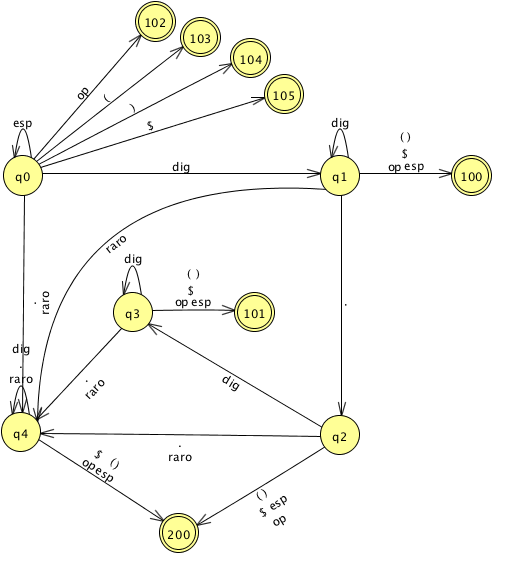
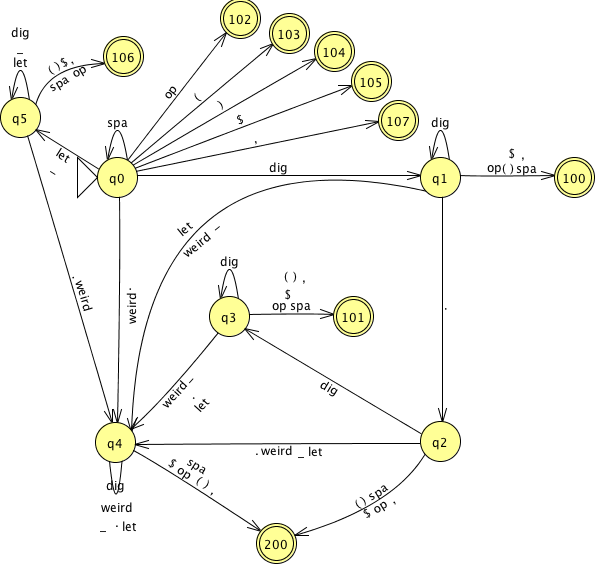
Add support for variables and comma separators

Changed region(s): [[0.0, 0.0, 0.9903, 1.0], [0.3095, 0.6252, 0.3404, 0.655]]

diff --git a/scanner.js b/scanner.js
@@ -21,6 +21,8 @@ const BOP = 102;  // Binary operator
 const LLP = 103;  // Delimiter: left parenthesis
 const RRP = 104;  // Delimiter: right parenthesis
 const END = 105;  // End of program
+const VAR = 106;  // Variable
+const COM = 107;  // Separator: comma
 const ERR = 200;  // Lexical error: unknown word
 
 // Transition Matrix: FDA coding
@@ -28,12 +30,13 @@ const ERR = 200;  // Lexical error: unknown word
 // Column = Transition
 // States > 99 are final states (acceptors)
 // Special case: State 200 = ERROR
-//            dig  op    (    )   odd  spa   .    $
-const MT = [[   1, BOP, LLP, RRP,   4,   0,   4, END],    // State 0 - Initial state
-            [   1, INT, INT, INT,   4, INT,   2, INT],    // State 1 - Integer numbers
-            [   3, ERR, ERR, ERR,   4, ERR,   4, ERR],    // State 2 - First decimal number
-            [   3, FLT, FLT, FLT,   4, FLT,   4, FLT],    // State 3 - Decimal numbers remaining
-            [   4, ERR, ERR, ERR,   4, ERR,   4, ERR]];   // State 4 - Error state
+//            dig  op    (    )   odd  spa   .    $   let   _    ,
+const MT = [[   1, BOP, LLP, RRP,   4,   0,   4, END,   5,   5, COM],    // State 0 - Initial state
+            [   1, INT, INT, INT,   4, INT,   2, INT,   4,   4, INT],    // State 1 - Integer numbers
+            [   3, ERR, ERR, ERR,   4, ERR,   4, ERR,   4,   4, ERR],    // State 2 - First decimal number
+            [   3, FLT, FLT, FLT,   4, FLT,   4, FLT,   4,   4, FLT],    // State 3 - Decimal numbers remaining
+            [   4, ERR, ERR, ERR,   4, ERR,   4, ERR,   4,   4, ERR],    // State 4 - Error state
+            [   5, VAR, VAR, VAR,   4, VAR,   4, VAR,   5,   5, VAR]];   // State 5 - Variables
 
 function scanner(input) {
   var state = 0;
@@ -87,6 +90,14 @@ function scanner(input) {
         console.log(tokens);
         return -1;
         break;
+      case VAR:
+        read = false;
+        console.log('Variable', lexema);
+        break;
+      case COM:
+        lexema += character;
+        console.log('Separator', lexema);
+        break;
       case ERR:
         read = false;
         console.log('Unexpected token', lexema);
@@ -117,7 +128,16 @@ function filter(character) {
 			return 6; // Decimal point
 		case '$':
 			return 7; // End of program
+    case 'a': case 'b': case 'c': case 'd': case 'e': case 'f': case 'g': case 'h':
+    case 'i': case 'j': case 'k': case 'l': case 'm': case 'n': case 'o': case 'p':
+    case 'q': case 'r': case 's': case 't': case 'u': case 'v': case 'w': case 'x':
+		case 'y': case 'z':
+			return 8; // Lowercase letters
+    case '_':
+      return 9;
+    case ',':
+      return 10;
 		default:
-			return 4; // Weird character (ilegal)
+			return 4; // Weird character (illegal)
   }
 }

diff --git a/README.md b/README.md
@@ -9,14 +9,25 @@ Integer numbers | Integer numbers | Binary operators | Delimiters | End of progr
  354            | 3.54            | -                | )          |                | &
  20             | 20.1234         | *                |            |                | .0
                 |                 | /                |            |                | 1...00
-  
+                |                 |                  |            |                | var.5
+
+Variables | Separators |
+--------- | ---------- |
+my_var1   | ,          |
+myvar2    |            |
+my3_3var  |            |
+_var_     |            |
+
+
 ## Input example
 ```
-12 - 5..00(3 * 7.8) - 0.56$
+my_var1, 12 - 5..00(3 * 7.8) - 0.56$
 ```
 
 ## Output example
 ```
+Variable my_var1
+Separator ,
 Integer 12
 Binary operator -
 Unexpected token 5..00
@@ -28,7 +39,7 @@ Delimiter )
 Binary operator -
 Float 0.56
 End of program
-[ 100, 102, 200, 103, 100, 102, 101, 104, 102, 101 ]
+[ 106, 107, 100, 102, 200, 103, 100, 102, 101, 104, 102, 101 ]
 ```
 
 At the end of execution, an array containing the tokens formed from the last entry is returned.
